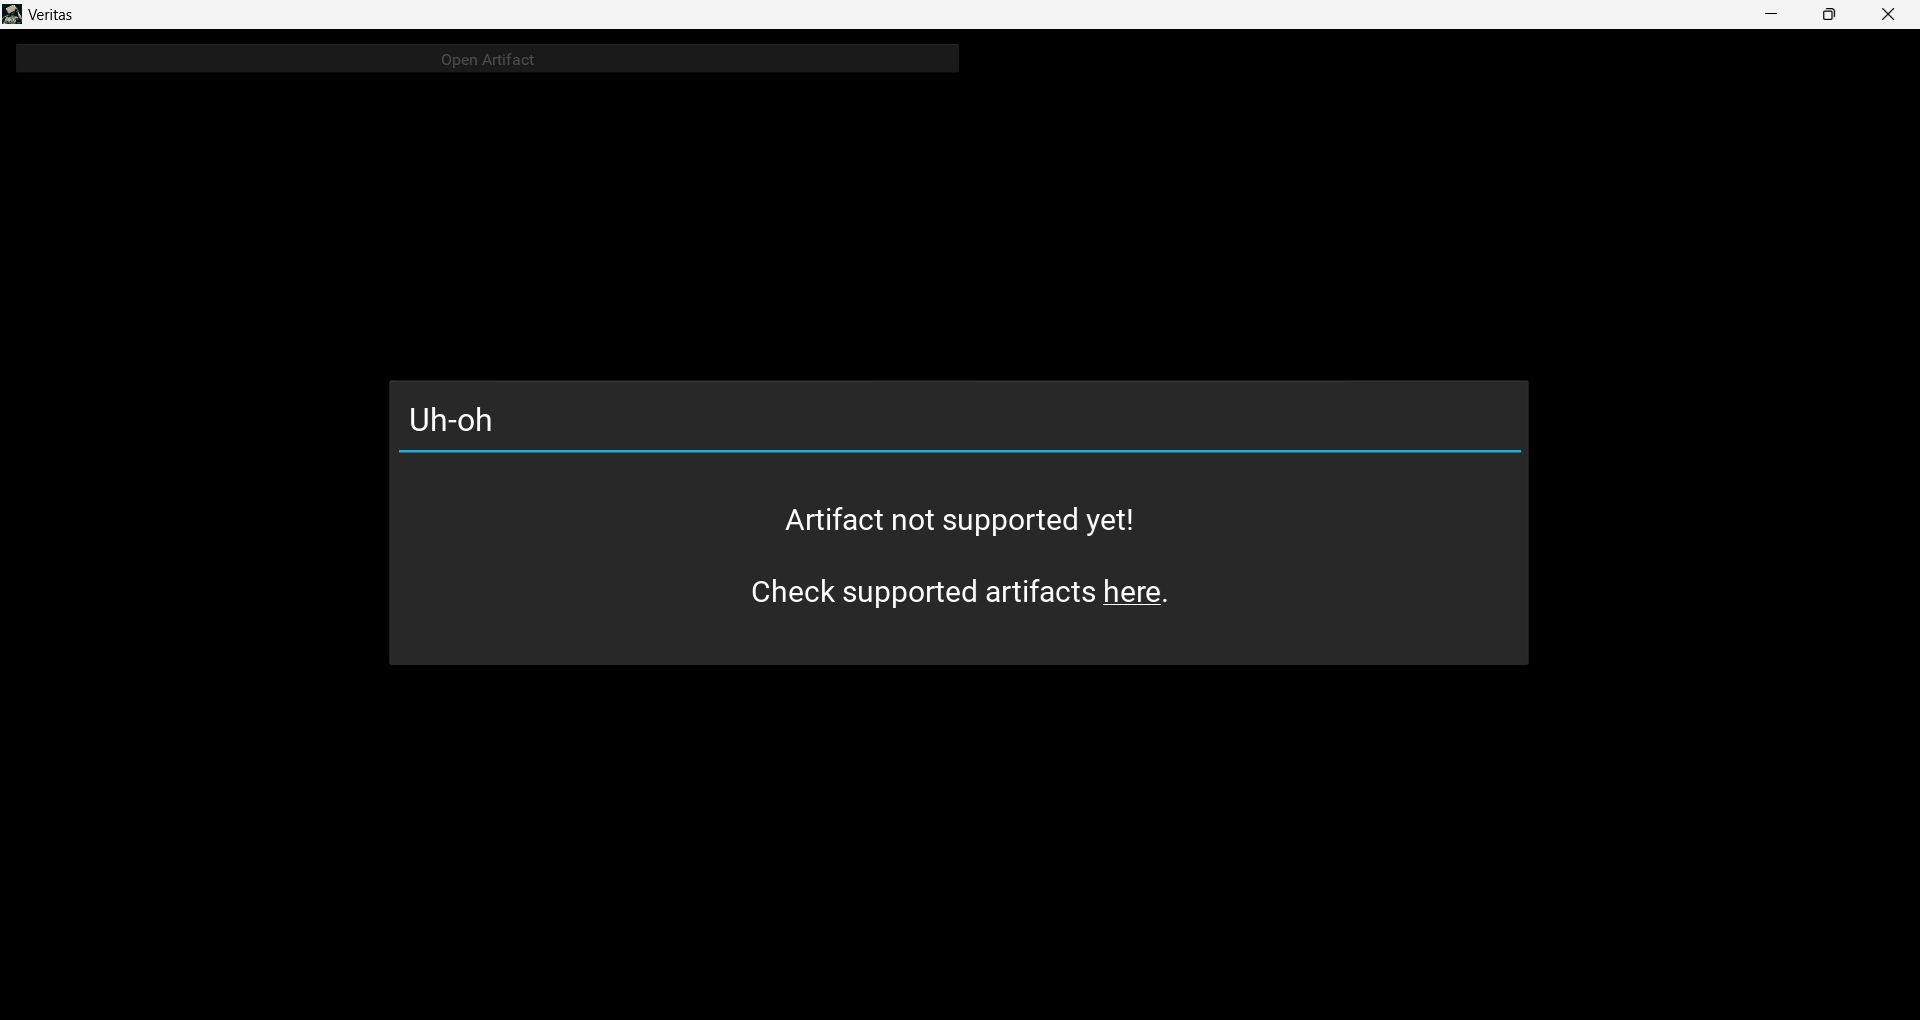
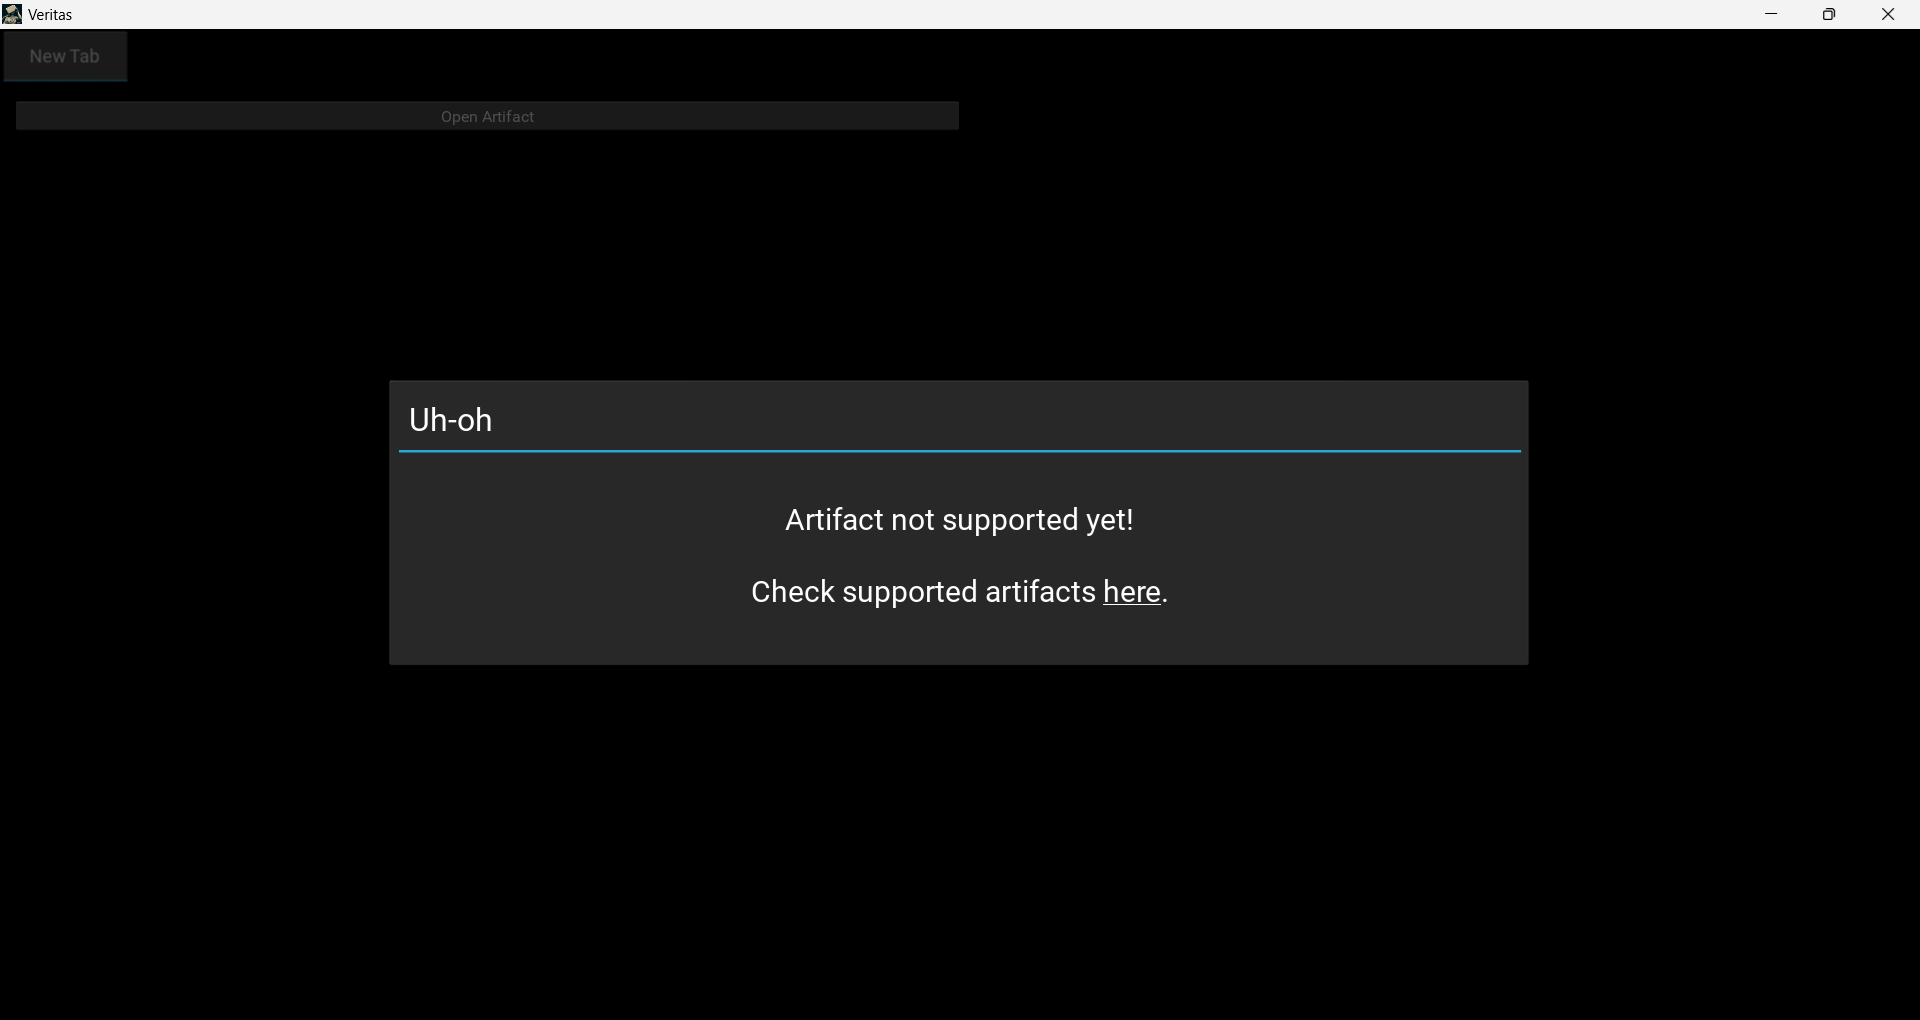
Update Stills

Changed region(s): [[0.0, 0.0304, 0.5, 0.152]]

diff --git a/main.py b/main.py
@@ -1,15 +1,12 @@
 import os, sys
 from kivy.config import Config
 Config.set('graphics', 'window_state', 'maximized')
-
 from kivy.app import App
 from kivy.uix.tabbedpanel import TabbedPanel, TabbedPanelItem
 from kivy.core.window import Window
 from kivy.resources import resource_add_path
 from kivy.clock import Clock
-
-import loader
-from veritas import MyWidget  # Your existing code, move to separate file
+from veritas import MyWidget
 
 class MainPanel(TabbedPanel):
 	def __init__(self, **kwargs):
@@ -88,15 +85,12 @@ class MainPanel(TabbedPanel):
 	def switch_tab(self, direction):
 		if not self.my_tabs:
 			return
-
 		try:
 			index = self.my_tabs.index(self.current_tab)
 		except ValueError:
 			return
-
 		new_index = (index + direction) % len(self.my_tabs)
 		self.switch_to(self.my_tabs[new_index])
-
 
 	def add_new_tab(self, file_path=None, prompt_open=True):
 		if file_path:
@@ -109,7 +103,7 @@ class MainPanel(TabbedPanel):
 		viewer._parent_tab = tab
 		tab.content = viewer
 		self.add_widget(tab)
-		self.my_tabs.append(tab)  # Track manually
+		self.my_tabs.append(tab)
 
 		def after_switch(_):
 			self.switch_to(tab)
@@ -125,30 +119,20 @@ class MainPanel(TabbedPanel):
 		if current_viewer and hasattr(current_viewer, 'closeFile'):
 			current_viewer.closeFile()
 
-		current_viewer.ids.closefile.disabled = True
-		current_viewer.ids.closefile.opacity = 0
-
-		current_viewer.ids.openfile.disabled = False
-		current_viewer.ids.openfile.opacity = 1
-
 		tab_to_close = self.current_tab
 		if not tab_to_close:
 			return
-
 		try:
 			index = self.my_tabs.index(tab_to_close)
 		except ValueError:
 			return
-
 		# Remove from panel and our custom list
 		self.remove_widget(tab_to_close)
 		self.my_tabs.remove(tab_to_close)
-
-		# If there are no tabs left, do nothing
+		# If there are no tabs left
 		if not self.my_tabs:
 			self.add_new_tab(prompt_open=False)
 			return
-
 		# Switch to tab on right if available, else go left
 		if index < len(self.my_tabs):
 			self.switch_to(self.my_tabs[index])  # tab on right

diff --git a/veritas.py b/veritas.py
@@ -7,11 +7,7 @@ from kivy.uix.widget import Widget
 from kivy.properties import ObjectProperty
 from kivy.uix.popup import Popup
 from kivy.uix.label import Label
-from kivy.resources import resource_add_path, resource_find
-
-from kivy.core.window import Window
-from kivy.uix.tabbedpanel import TabbedPanel, TabbedPanelItem
-
+from kivy.resources import resource_add_path
 
 class MyWidget(Widget):
 	firstrv = ObjectProperty(None)
